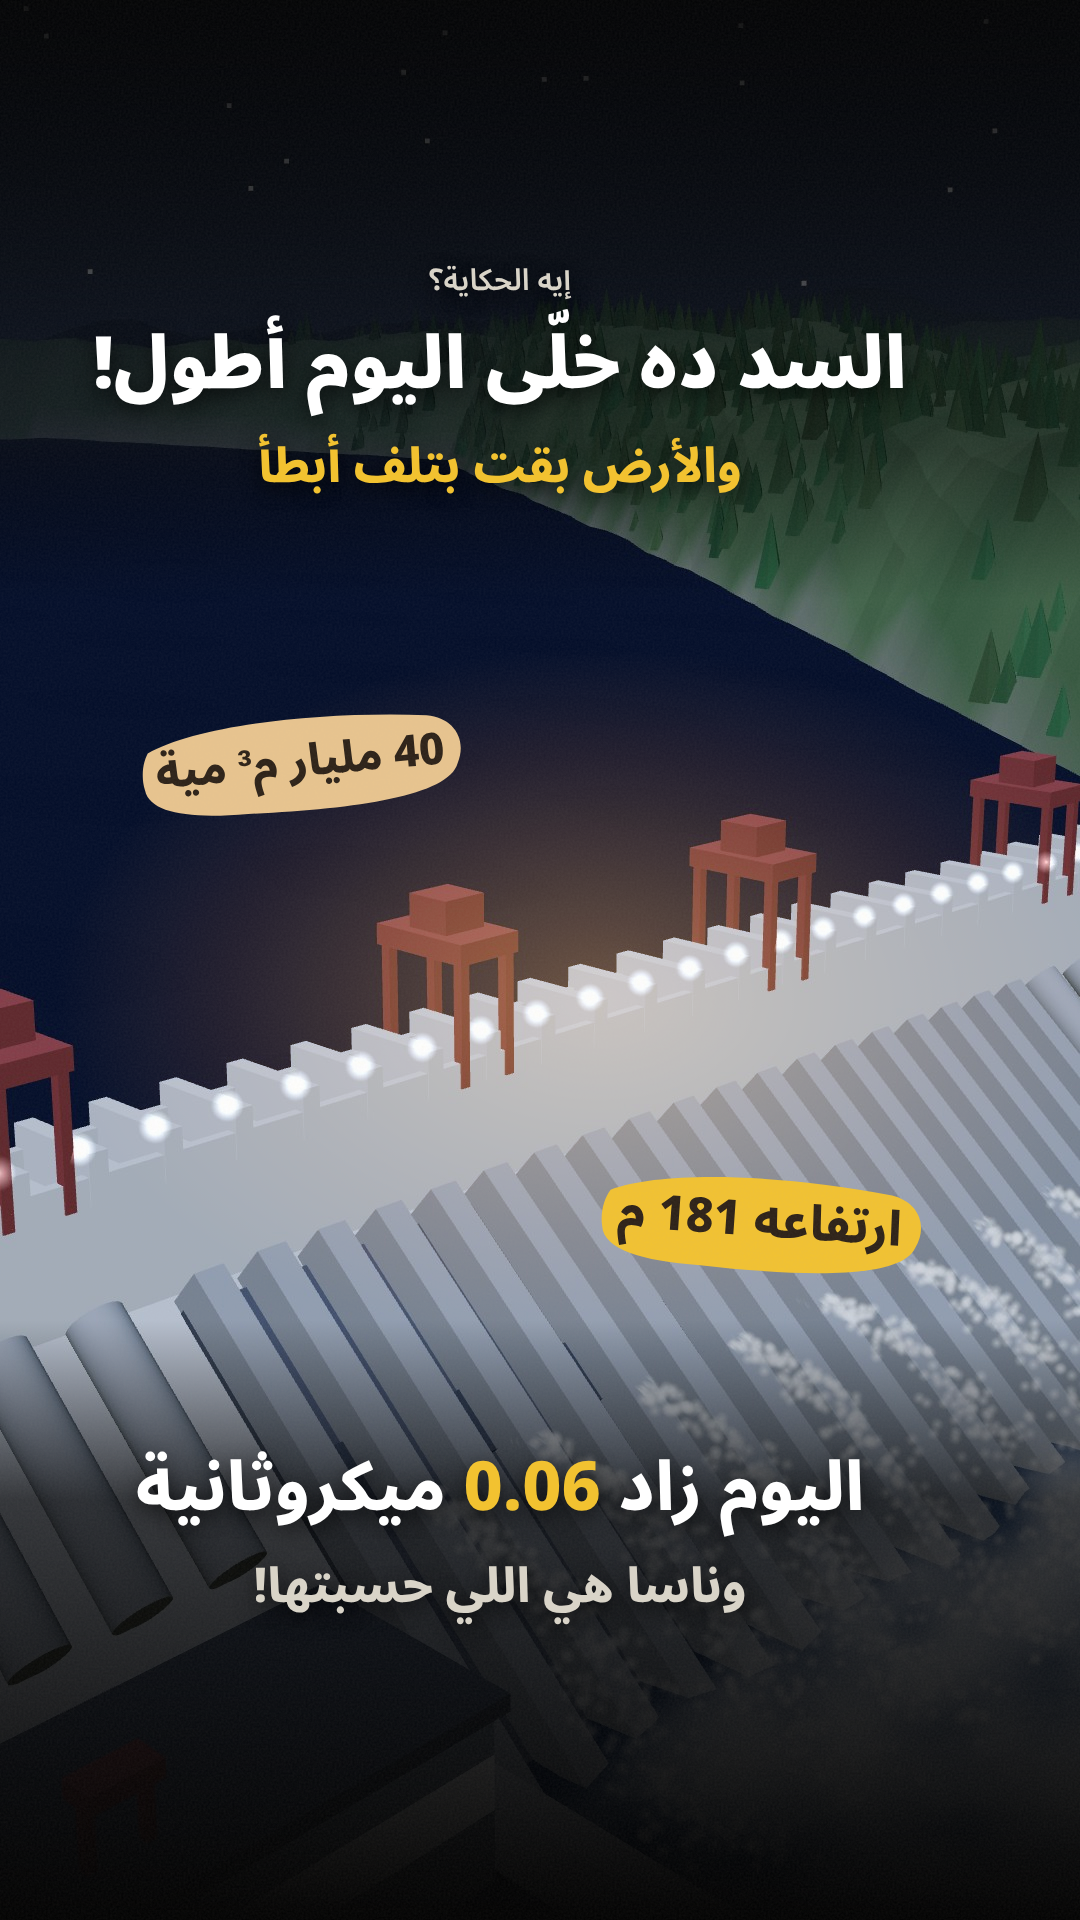
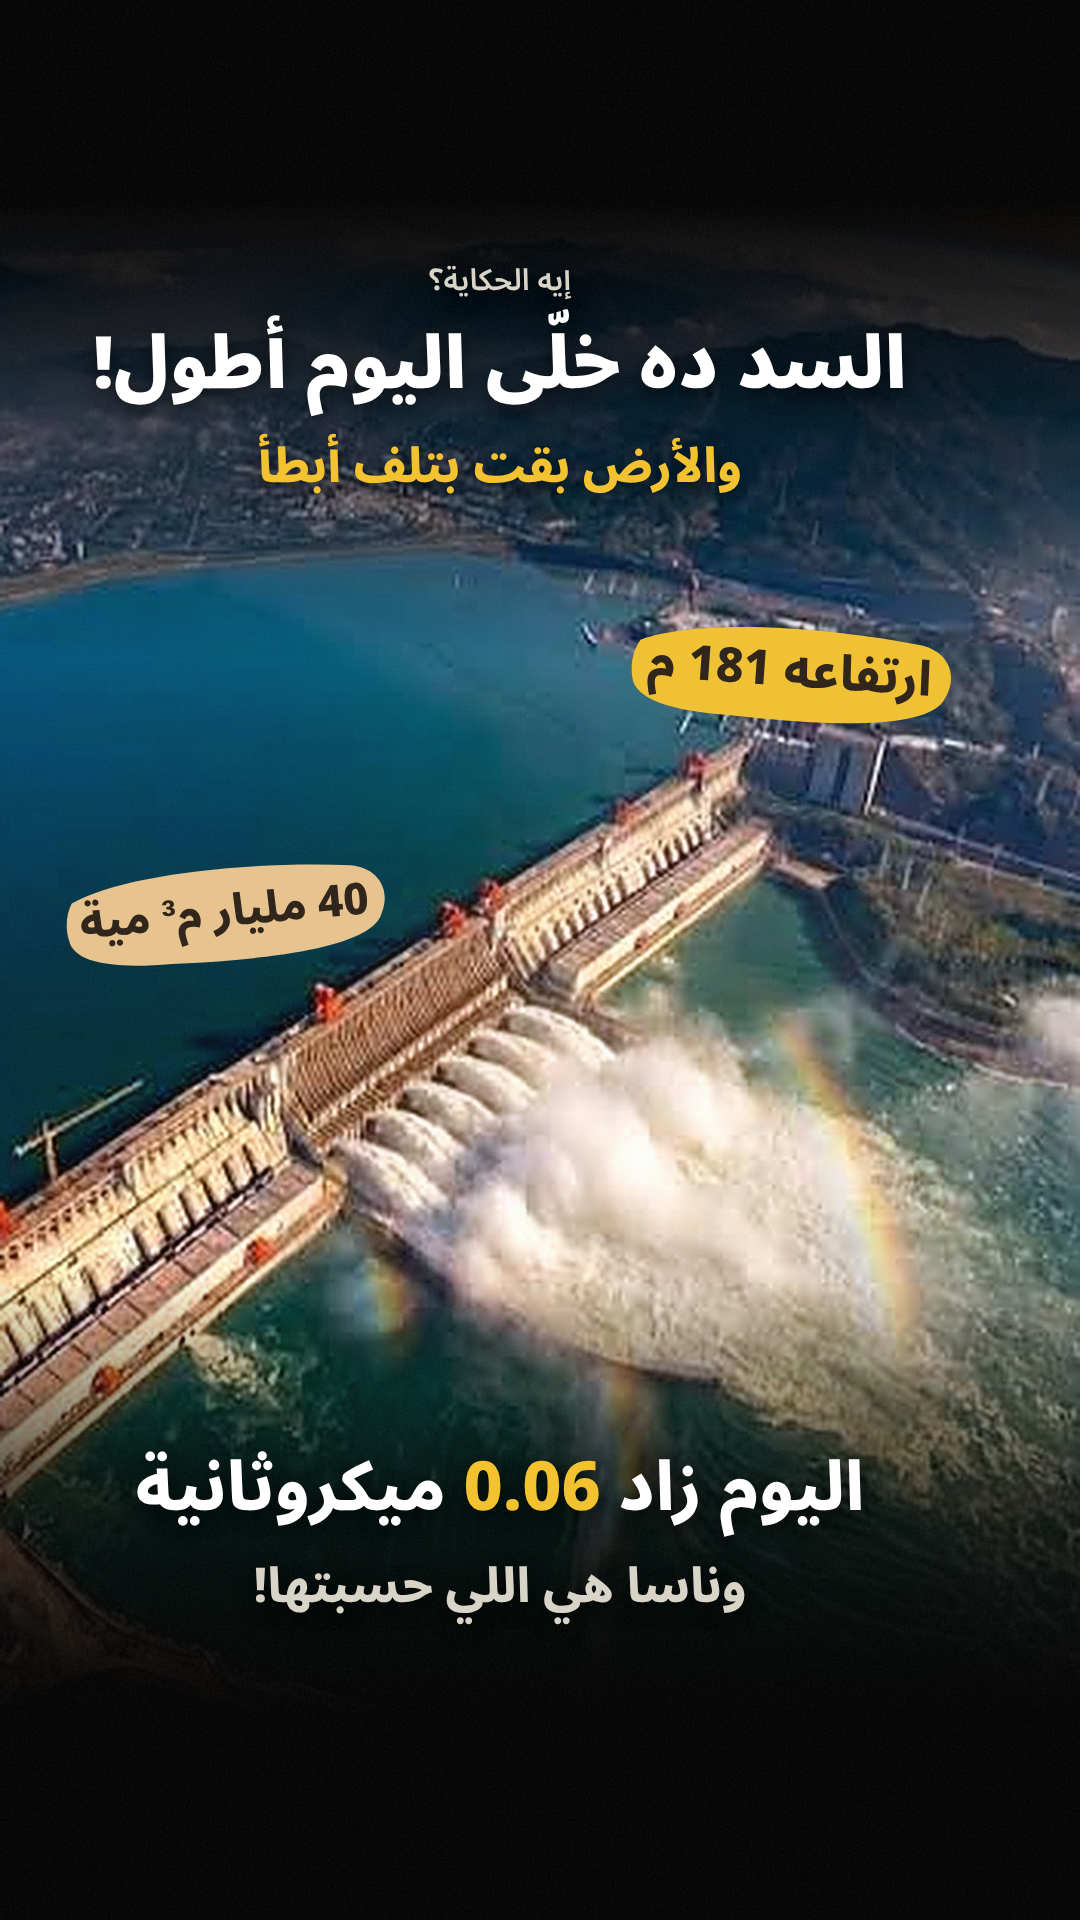
Three Gorges cover: use the user's aerial photo (open spillway, rainbow)
Claude-Session: https://claude.ai/code/session_01E23g9Wa4g1sxNyhvfZ7BQY

diff --git a/brand/eh-elhekaya/cover-three-gorges-tiktok.html b/brand/eh-elhekaya/cover-three-gorges-tiktok.html
@@ -1,33 +1,33 @@
 <!doctype html>
-<html lang="ar" dir="rtl"><head><meta charset="utf-8"><title>TikTok cover — Three Gorges dam (3D)</title>
+<html lang="ar" dir="rtl"><head><meta charset="utf-8"><title>TikTok cover — Three Gorges dam (photo)</title>
 <link href="https://fonts.googleapis.com/css2?family=Noto+Sans+Arabic:wght@600;800;900&display=swap" rel="stylesheet">
 <style>
   /* Reel cover for the 3D Three Gorges episode («السد ده خلّى اليوم أطول»), full bleed 540×960 at 2x.
-     The picture is a clean frame of the episode's three.js dam at night (videos/three-gorges/3d/index.html at t = 9.5 s,
-     overlays hidden) saved as photos/three-gorges-3d-night.jpg. Tunnel-cover palette: near black top and bottom and a
-     warm glow behind the dam. Text stays inside y 120–840 and away from the right-hand buttons. */
+     The picture is the user's aerial photo of the dam (spillway open, a rainbow in the spray), cropped to a vertical slice
+     and upscaled to photos/three-gorges-aerial.jpg (1080×1520), placed at y 100–860 and faded to black top and bottom
+     (tunnel-cover palette), with a soft warm glow on the spray. Text stays inside y 120–840 and away from the right-hand buttons. */
   body { margin: 0; background: #000; }
   .cover { position: relative; width: 540px; height: 960px; overflow: hidden; background: #000; }
-  #bg { position: absolute; inset: 0; width: 540px; height: 960px; object-fit: cover; }
+  #bg { position: absolute; left: 0; top: 100px; width: 540px; height: 760px; }
   .glow { position: absolute; inset: 0; pointer-events: none; mix-blend-mode: screen;
-          background: radial-gradient(ellipse 340px 220px at 300px 500px, rgba(255,176,70,.42), rgba(255,140,40,.12) 55%, rgba(0,0,0,0) 80%); }
+          background: radial-gradient(ellipse 260px 200px at 340px 560px, rgba(255,186,90,.28), rgba(255,150,50,.08) 55%, rgba(0,0,0,0) 80%); }
   .fade { position: absolute; left: 0; right: 0; pointer-events: none; }
   .t { position: absolute; left: 24px; right: 64px; margin: 0; text-align: center; text-shadow: 0 3px 10px rgba(0,0,0,.6); }
   #over { position: absolute; inset: 0; width: 540px; height: 960px; }
   .tag { font-family: "Noto Sans Arabic", sans-serif; font-weight: 800; fill: #2b2016; }
 </style></head><body>
 <div class="cover">
-  <img id="bg" src="photos/three-gorges-3d-night.jpg" alt="">
+  <img id="bg" src="photos/three-gorges-aerial.jpg" alt="">
   <div class="glow"></div>
-  <div class="fade" style="top:0;height:300px;background:linear-gradient(#000e,#0008 75%,#0000)"></div>
-  <div class="fade" style="top:660px;height:300px;background:linear-gradient(#0000,#000b 30%,#000f)"></div>
+  <div class="fade" style="top:0;height:330px;background:linear-gradient(#000 0,#000 100px,#000c 170px,#0006 260px,#0000)"></div>
+  <div class="fade" style="top:640px;height:320px;background:linear-gradient(#0000,#000b 35%,#000 69%)"></div>
   <svg id="over" viewBox="0 0 540 960">
     <defs>
       <path id="swash" d="M6 14 C40 4 120 2 196 8 C214 10 222 20 214 30 C206 44 140 46 70 44 C30 44 4 40 2 30 C0 24 2 18 6 14 Z"/>
       <filter id="grain"><feTurbulence type="fractalNoise" baseFrequency=".9" numOctaves="2" seed="4"/><feColorMatrix values="0 0 0 0 .5  0 0 0 0 .45  0 0 0 0 .4  0 0 0 .08 0"/></filter>
     </defs>
-    <g transform="translate(380 610) rotate(4)"><use href="#swash" fill="#f2c230" transform="translate(-80 -26) scale(.74 1.15)"/><text y="8" text-anchor="middle" class="tag" style="font-size:24px">ارتفاعه 181 م</text></g>
-    <g transform="translate(150 380) rotate(-5)"><use href="#swash" fill="#e8c48e" transform="translate(-80 -26) scale(.74 1.15)"/><text y="8" text-anchor="middle" class="tag" style="font-size:22px">40 مليار م³ مية</text></g>
+    <g transform="translate(395 335) rotate(4)"><use href="#swash" fill="#f2c230" transform="translate(-80 -26) scale(.74 1.15)"/><text y="8" text-anchor="middle" class="tag" style="font-size:24px">ارتفاعه 181 م</text></g>
+    <g transform="translate(112 455) rotate(-5)"><use href="#swash" fill="#e8c48e" transform="translate(-80 -26) scale(.74 1.15)"/><text y="8" text-anchor="middle" class="tag" style="font-size:22px">40 مليار م³ مية</text></g>
     <rect width="540" height="960" filter="url(#grain)"/>
   </svg>
   <p class="t" style="top:124px;font:600 15px 'Noto Sans Arabic';color:#d9d4c8">إيه الحكاية؟</p>
